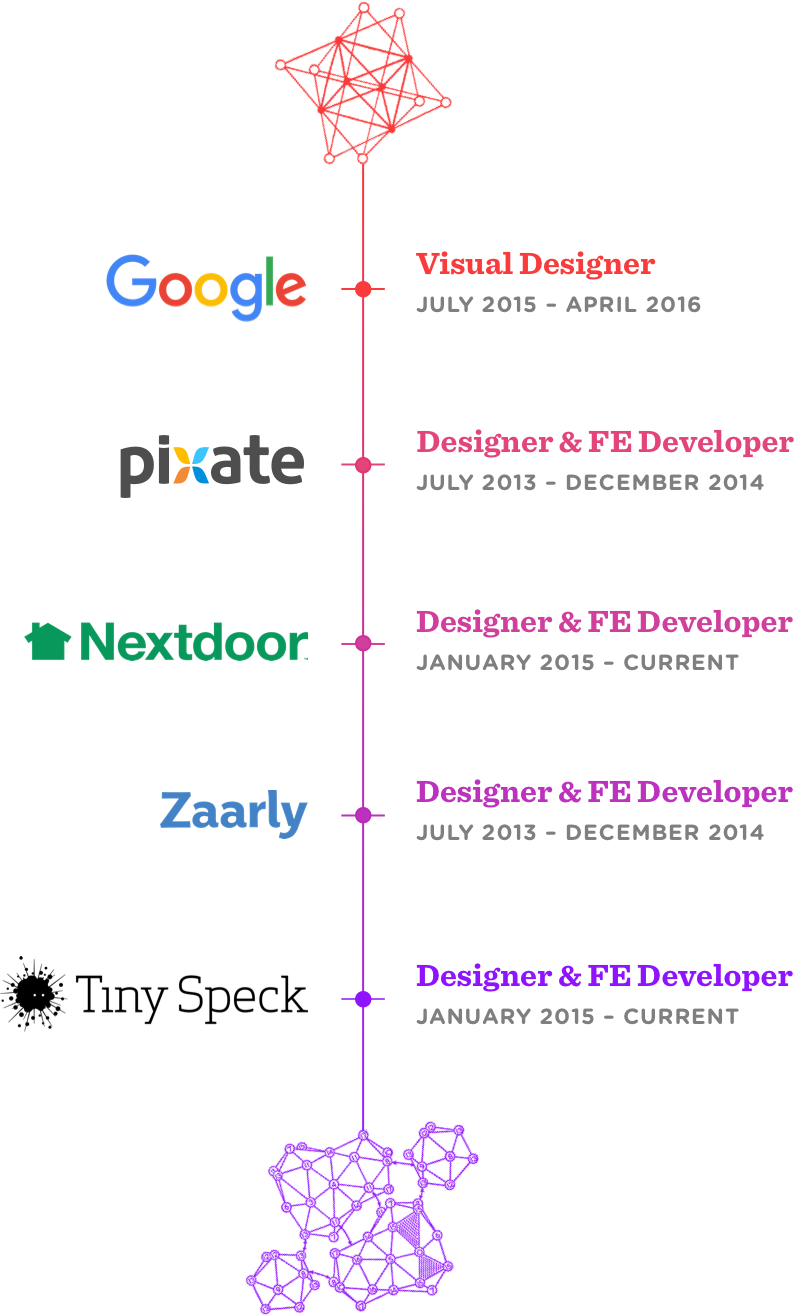
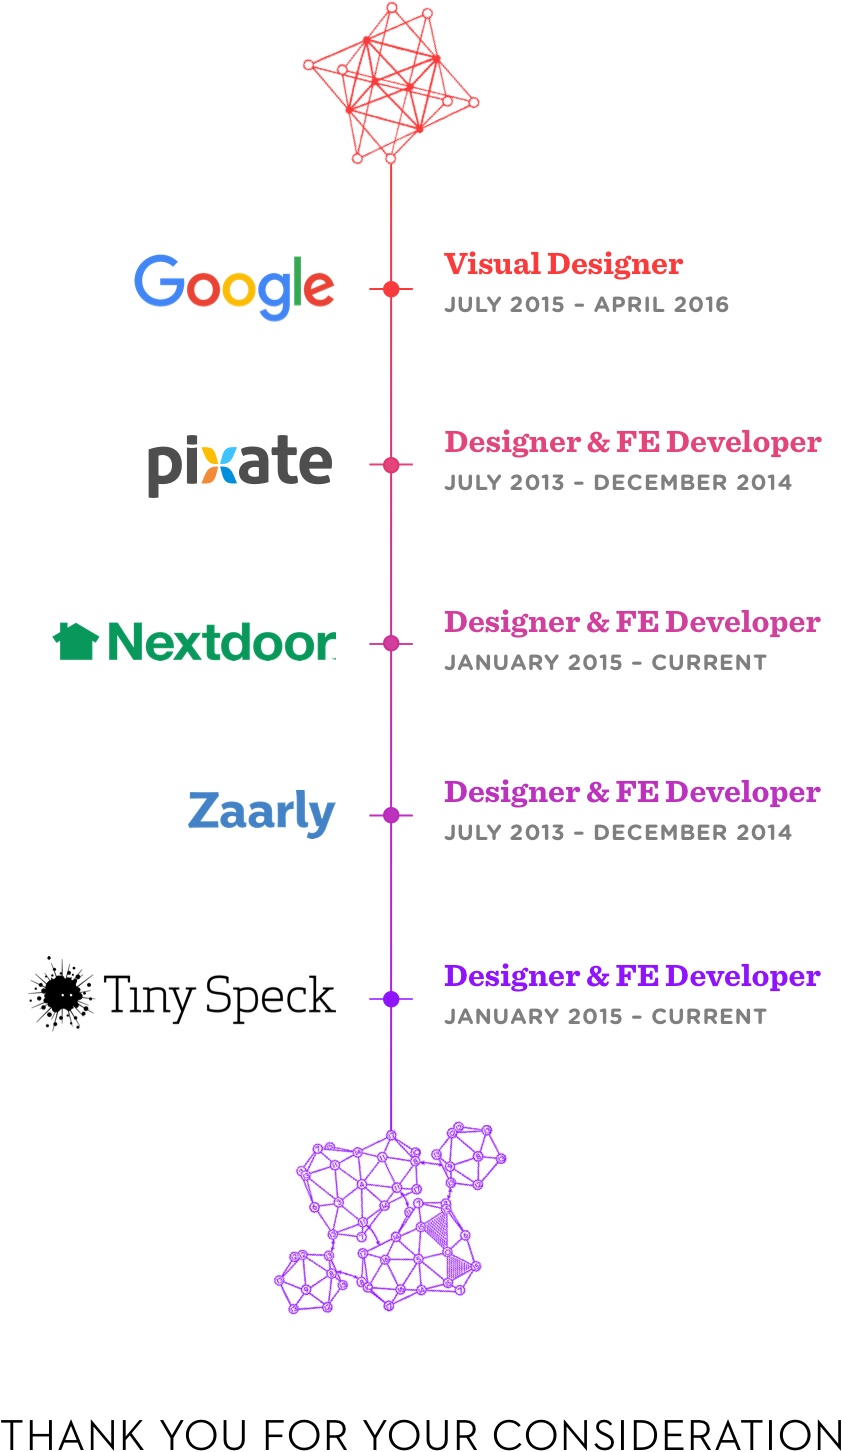
signoff at the end of resume

diff --git a/src/App.js b/src/App.js
@@ -148,7 +148,8 @@ function App() {
             src={resume}
             style={{
               width: "36.67%",
-              transform: "translateX(3%)"
+              transform: "translateX(3%)",
+              marginBottom: "12rem"
             }}
           />
         </Cell>
